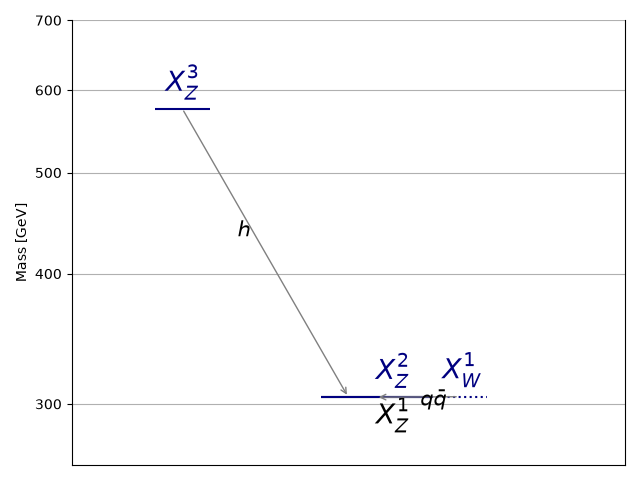
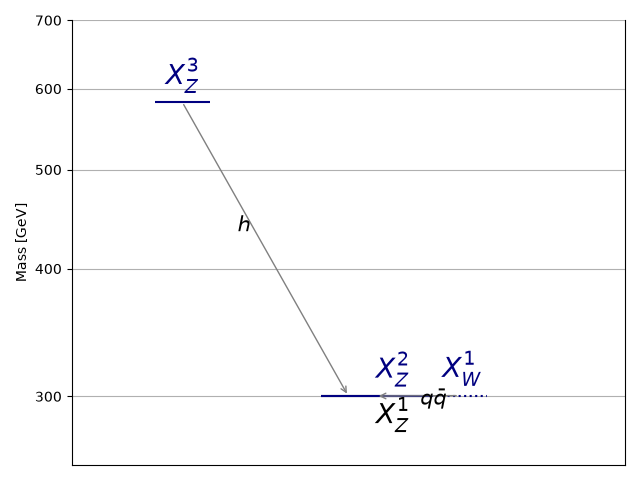
automated update by plotHiscore.py to rundir6_320:     K=13.833 TL=18.58 walkerid=612

diff --git a/protomodels/rundir6_320/index.html b/protomodels/rundir6_320/index.html
@@ -1,27 +1,27 @@
 <html>
 <body>
 <center>
-<table><td><h1>Current best protomodel: <i>K</i>=13.97, <i>TL</i>=18.49</h1><td><img height=60px src=https://smodels.github.io//protomodels/logos/protomodel_lego.png></table>
+<table><td><h1>Current best protomodel: <i>K</i>=13.83, <i>TL</i>=18.58</h1><td><img height=60px src=https://smodels.github.io//protomodels/logos/protomodel_lego.png></table>
 </center>
-<b><a href=./hiscore.slha>ProtoModel</a> <a href=./pmodel.dict>(dict)</a> produced with <a href=https://smodels.github.io//docs/Validation320>database v3.2.0</a>, allowed_extr 0.05 in walker 629 step 1525.</b> <br>
+<b><a href=./hiscore.slha>ProtoModel</a> <a href=./pmodel.dict>(dict)</a> produced with <a href=https://smodels.github.io//docs/Validation320>database v3.2.0</a>, allowed_extr 0.05 in walker 612 step 1551.</b> <br>
 <table width=80%>
 <tr><td>
 <br><b>Critics:</b> passed both critics<br>
 <br><b>UL Critic: 1/2 analyses exclude</b><br>
-ATLAS-EXOT-2018-06:EM12:: <span style='color: darkred;'>r<sub>obs</sub>=1.787, r<sub>exp</sub>=1.491</span><br>
-CMS-EXO-19-010:SR_nlay6p:: <span style='color: darkgreen;'>r<sub>obs</sub>=0.636, r<sub>exp</sub>=0.389</span><br>
-ATLAS-SUSY-2018-19:SR_EW:: <span style='color: darkgreen;'>r<sub>obs</sub>=0.55, r<sub>exp</sub>=0.536</span><br>
-<br><b>LLHD Critic:</b> ATLAS-EXOT-2018-06:EM12, CMS-EXO-20-004:matrix.cov, CMS-SUS-20-004:matrix.cov, CMS-EXO-19-010:SR_nlay6p, ATLAS-SUSY-2016-06:SR_EW:: <span style='color: darkred;'>r<sub>obs</sub>=1.14, r<sub>exp</sub>=2.25</span><br>
+ATLAS-EXOT-2018-06:EM12:: <span style='color: darkred;'>r<sub>obs</sub>=1.802, r<sub>exp</sub>=1.503</span><br>
+CMS-EXO-19-010:SR_nlay6p:: <span style='color: darkgreen;'>r<sub>obs</sub>=0.635, r<sub>exp</sub>=0.389</span><br>
+ATLAS-SUSY-2018-19:SR_EW:: <span style='color: darkgreen;'>r<sub>obs</sub>=0.549, r<sub>exp</sub>=0.535</span><br>
+<br><b>LLHD Critic:</b> ATLAS-EXOT-2018-06:EM12, CMS-EXO-20-004:matrix.cov, CMS-SUS-20-004:matrix.cov, CMS-EXO-19-010:SR_nlay6p, ATLAS-SUSY-2016-06:SR_EW:: <span style='color: darkred;'>r<sub>obs</sub>=1.15, r<sub>exp</sub>=2.26</span><br>
 </ul>
-<td><img width=600px src=./texdoc.png?1792336089>
-<br><span style='font-size: smaller; color: darkred;'>Last updated: Sun Oct 18 17:08:09 2026</span>
+<td><img width=600px src=./texdoc.png?1792392132>
+<br><span style='font-size: smaller; color: darkred;'>Last updated: Mon Oct 19 08:42:12 2026</span>
 <br><br><b>7 predictions available. Highest r values are:</b><br><ul>
-<li><a href=https://atlas.web.cern.ch/Atlas/GROUPS/PHYSICS/PAPERS/EXOT-2018-06/>ATLAS-EXOT-2018-06</a>:EM12:TChiISR r=1.79, r<sub>exp</sub>=1.49<br>
+<li><a href=https://atlas.web.cern.ch/Atlas/GROUPS/PHYSICS/PAPERS/EXOT-2018-06/>ATLAS-EXOT-2018-06</a>:EM12:TChiISR r=1.80, r<sub>exp</sub>=1.50<br>
 <li><a href=http://cms-results.web.cern.ch/cms-results/public-results/publications/EXO-19-010/>CMS-EXO-19-010</a>:SR_nlay6p:TDTM2F r=0.64, r<sub>exp</sub>=0.39<br>
-<li><a href=https://atlas.web.cern.ch/Atlas/GROUPS/PHYSICS/PAPERS/SUSY-2018-19/>ATLAS-SUSY-2018-19</a>:SR_EW:TDTM2F r=0.55, r<sub>exp</sub>=0.54<br>
-<li><a href=http://cms-results.web.cern.ch/cms-results/public-results/publications/SUS-20-004/>CMS-SUS-20-004</a>:ul:TChiHH r=0.37, r<sub>exp</sub>=0.74<br>
+<li><a href=https://atlas.web.cern.ch/Atlas/GROUPS/PHYSICS/PAPERS/SUSY-2018-19/>ATLAS-SUSY-2018-19</a>:SR_EW:TDTM2F r=0.55, r<sub>exp</sub>=0.53<br>
+<li><a href=http://cms-results.web.cern.ch/cms-results/public-results/publications/SUS-20-004/>CMS-SUS-20-004</a>:ul:TChiHH r=0.41, r<sub>exp</sub>=0.81<br>
 </table><table style="width:80%">
-<td width=40%><img height=450px src=./mass_hierarchy.png?1792336089><td width=60%><font size=-3><iframe type="text/html" height="350px" width="100%" frameborder="0" src="./rawnumbers.html?1792336089"></iframe></font>
+<td width=40%><img height=450px src=./mass_hierarchy.png?1792392132><td width=60%><font size=-3><iframe type="text/html" height="350px" width="100%" frameborder="0" src="./rawnumbers.html?1792392132"></iframe></font>
 </table>
 </body>
 </html>

diff --git a/protomodels/rundir6_320/rawnumbers.html b/protomodels/rundir6_320/rawnumbers.html
@@ -2,8 +2,8 @@
 <tr><th>Analysis Name</th><th>Type</th><th>Dataset</th><th>Topos</th><th>Observed</th><th>Expected</th><th>Approx &sigma;</th><th>Particles</th>
 </tr>
 <tr><td><a href=https://atlas.web.cern.ch/Atlas/GROUPS/PHYSICS/PAPERS/EXOT-2018-06/>ATLAS-EXOT-2018-06</a></td><td>em</td> <td>EM10</td><td>TChiISR</td><td>413</td><td>359.00 +/- 10.00</td><td style="text-align:right">2.4 &sigma;</td><td style="text-align:right">X<sup>2</sup><sub>Z</sub>, X<sup>1</sup><sub>Z</sub></td></tr>
-<tr><td><a href=http://cms-results.web.cern.ch/cms-results/public-results/publications/SUS-20-004/>CMS-SUS-20-004</a></td><td>comb</td> <td>-</td><td>TChiHH</td><td> 0.3 fb </td><td> 0.2 fb</td><td style="text-align:right">2.2 &sigma;</td><td style="text-align:right">X<sup>3</sup><sub>Z</sub>, X<sup>2</sup><sub>Z</sub></td></tr>
 <tr><td><a href=http://cms-results.web.cern.ch/cms-results/public-results/publications/EXO-20-004/>CMS-EXO-20-004</a></td><td>comb</td> <td>-</td><td>TChiISR</td><td> 4e+01 fb </td><td> 3e+01 fb</td><td style="text-align:right">2.2 &sigma;</td><td style="text-align:right">X<sup>2</sup><sub>Z</sub>, X<sup>1</sup><sub>Z</sub></td></tr>
+<tr><td><a href=http://cms-results.web.cern.ch/cms-results/public-results/publications/SUS-20-004/>CMS-SUS-20-004</a></td><td>comb</td> <td>-</td><td>TChiHH</td><td> 0.3 fb </td><td> 0.2 fb</td><td style="text-align:right">2.2 &sigma;</td><td style="text-align:right">X<sup>3</sup><sub>Z</sub>, X<sup>2</sup><sub>Z</sub></td></tr>
 <tr><td><a href=http://cms-results.web.cern.ch/cms-results/public-results/publications/EXO-19-010/>CMS-EXO-19-010</a></td><td>em</td> <td>SR_nlay5</td><td>TDTM2F</td><td>6</td><td>3.70 +/- 1.24</td><td style="text-align:right">0.8 &sigma;</td><td style="text-align:right">X<sup>1</sup><sub>W</sub>, X<sup>2</sup><sub>Z</sub>, X<sup>1</sup><sub>Z</sub></td></tr>
 <tr><td><a href=https://atlas.web.cern.ch/Atlas/GROUPS/PHYSICS/PAPERS/SUSY-2018-42/>ATLAS-SUSY-2018-42</a></td><td>em</td> <td>SR300_High_long</td><td>TDTM2F</td><td>7</td><td>5.10 +/- 0.50</td><td style="text-align:right">0.7 &sigma;</td><td style="text-align:right">X<sup>1</sup><sub>W</sub>, X<sup>2</sup><sub>Z</sub>, X<sup>1</sup><sub>Z</sub></td></tr>
 <tr><td><a href=https://atlas.web.cern.ch/Atlas/GROUPS/PHYSICS/PAPERS/SUSY-2016-06/>ATLAS-SUSY-2016-06</a></td><td>em</td> <td>SR_EW</td><td>TDTM2F</td><td>9</td><td>11.80 +/- 3.10</td><td style="text-align:right">-0.7 &sigma;</td><td style="text-align:right">X<sup>1</sup><sub>W</sub>, X<sup>2</sup><sub>Z</sub>, X<sup>1</sup><sub>Z</sub></td></tr>
